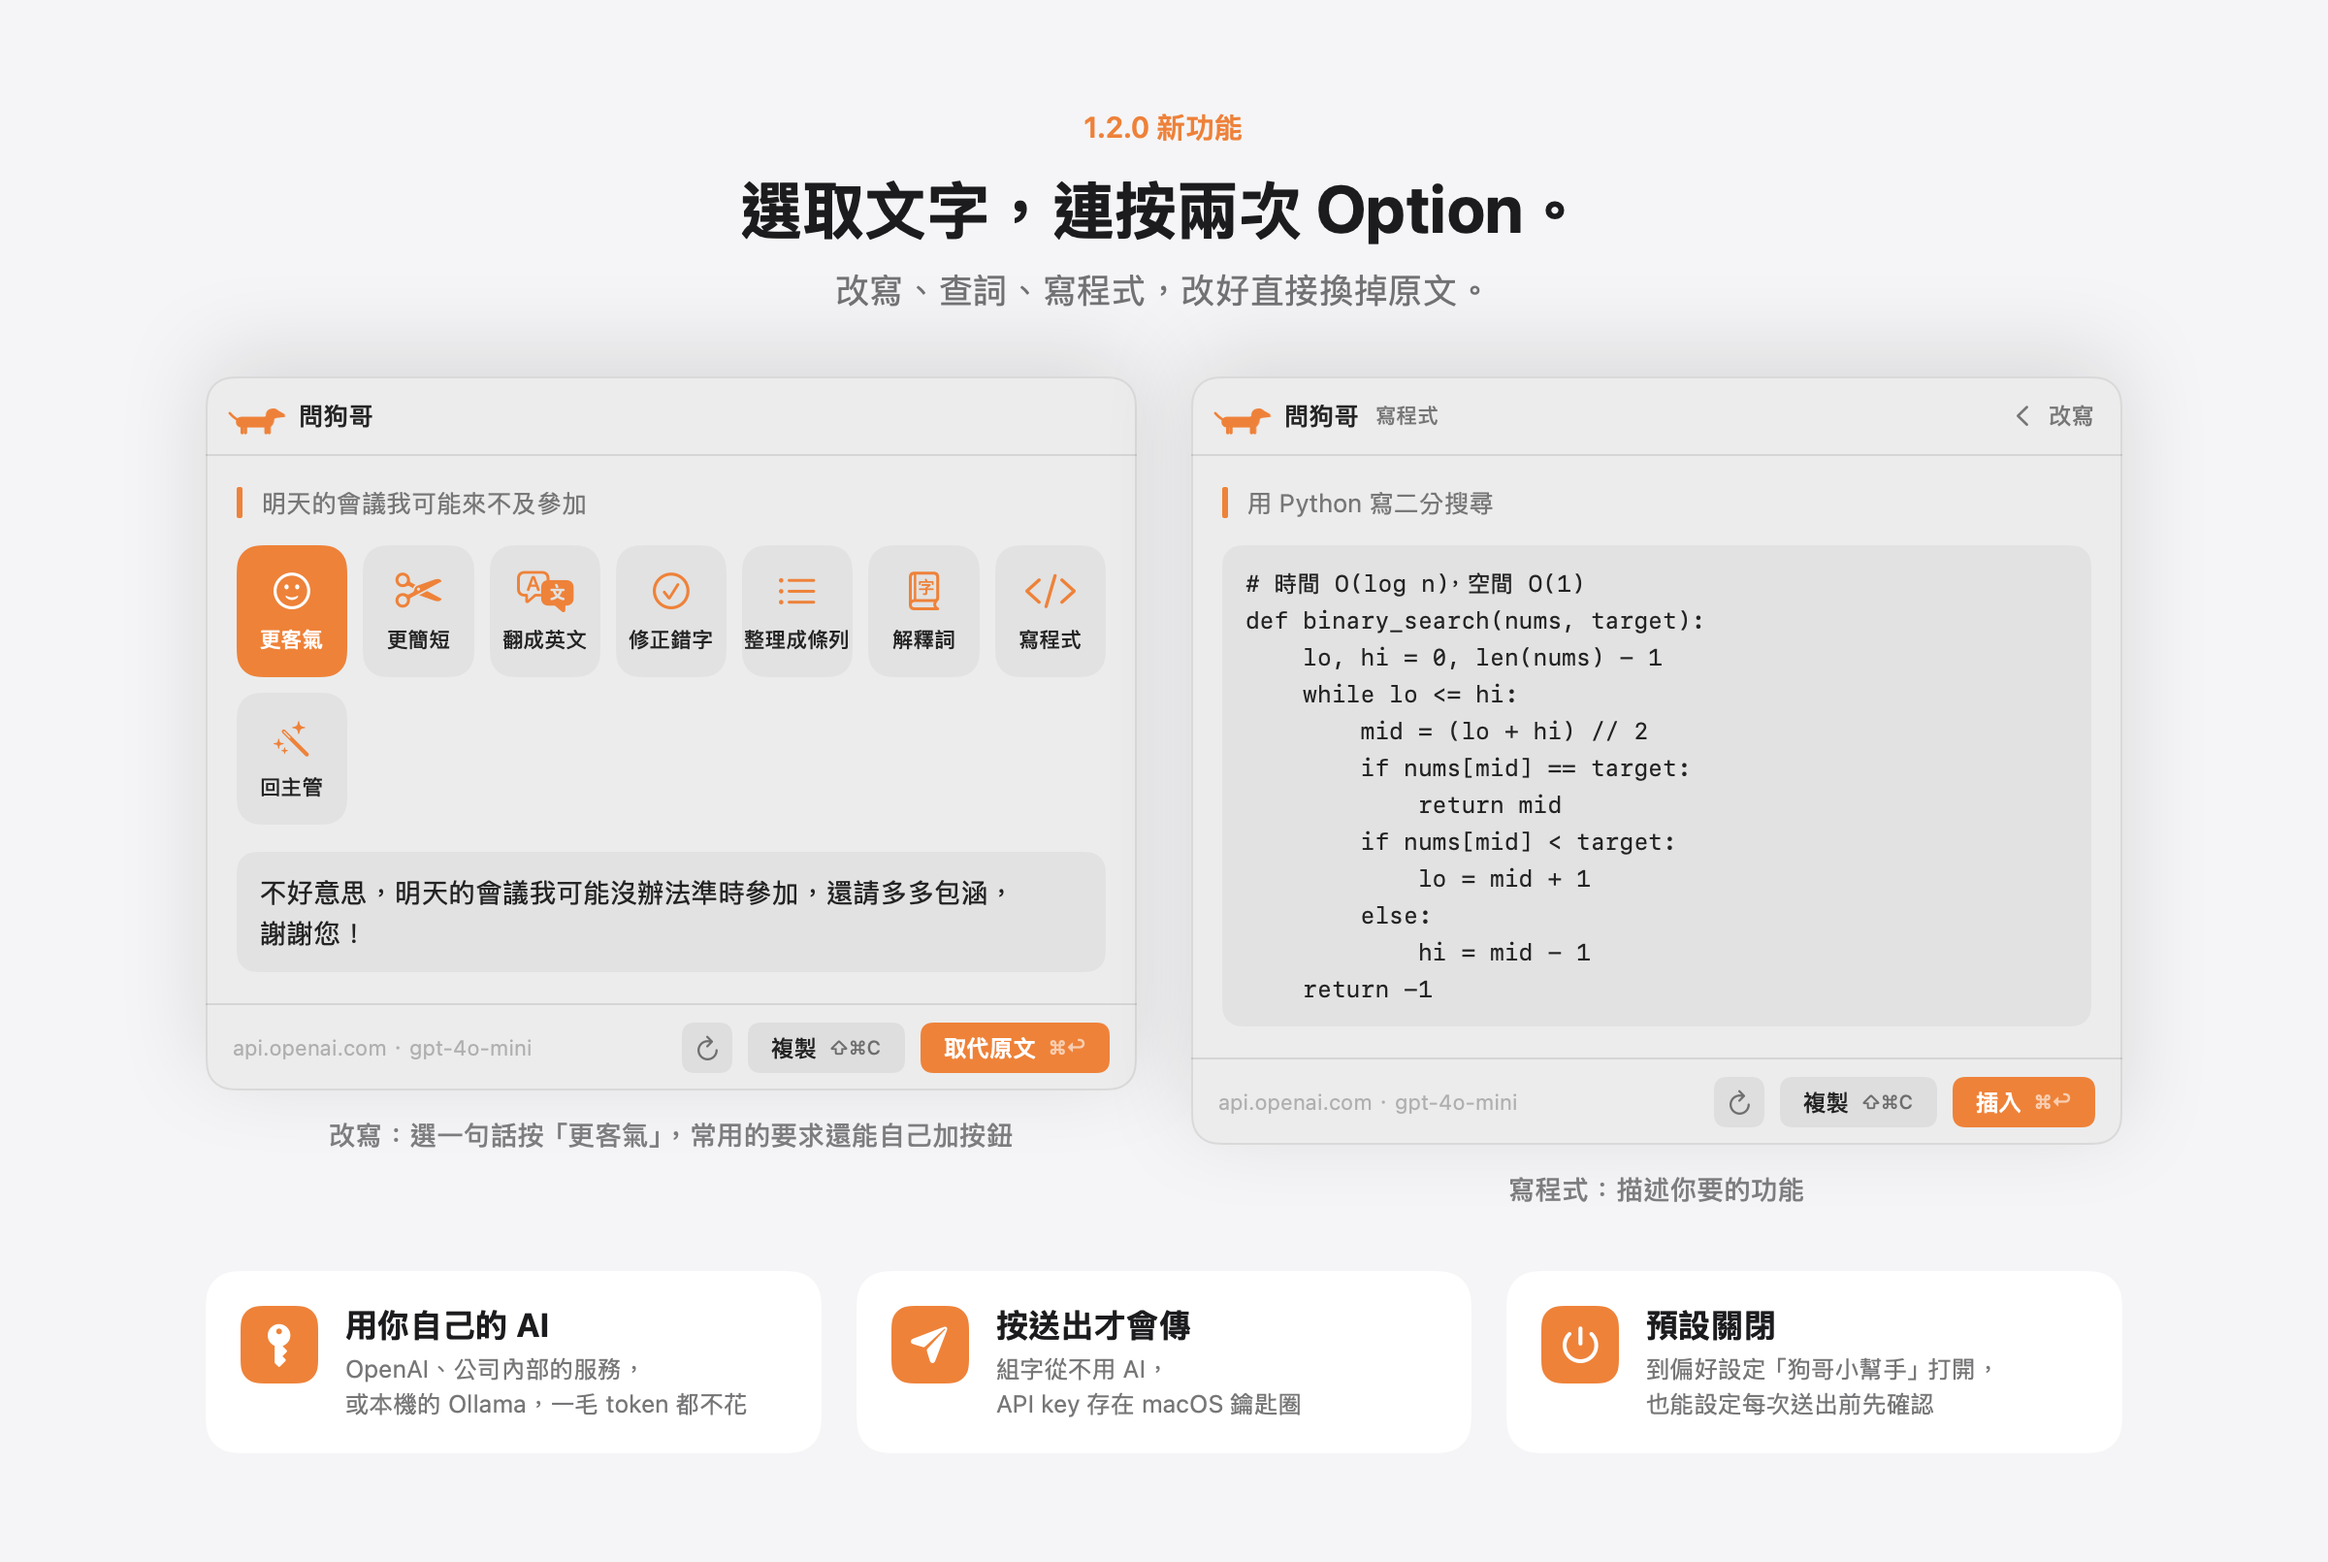
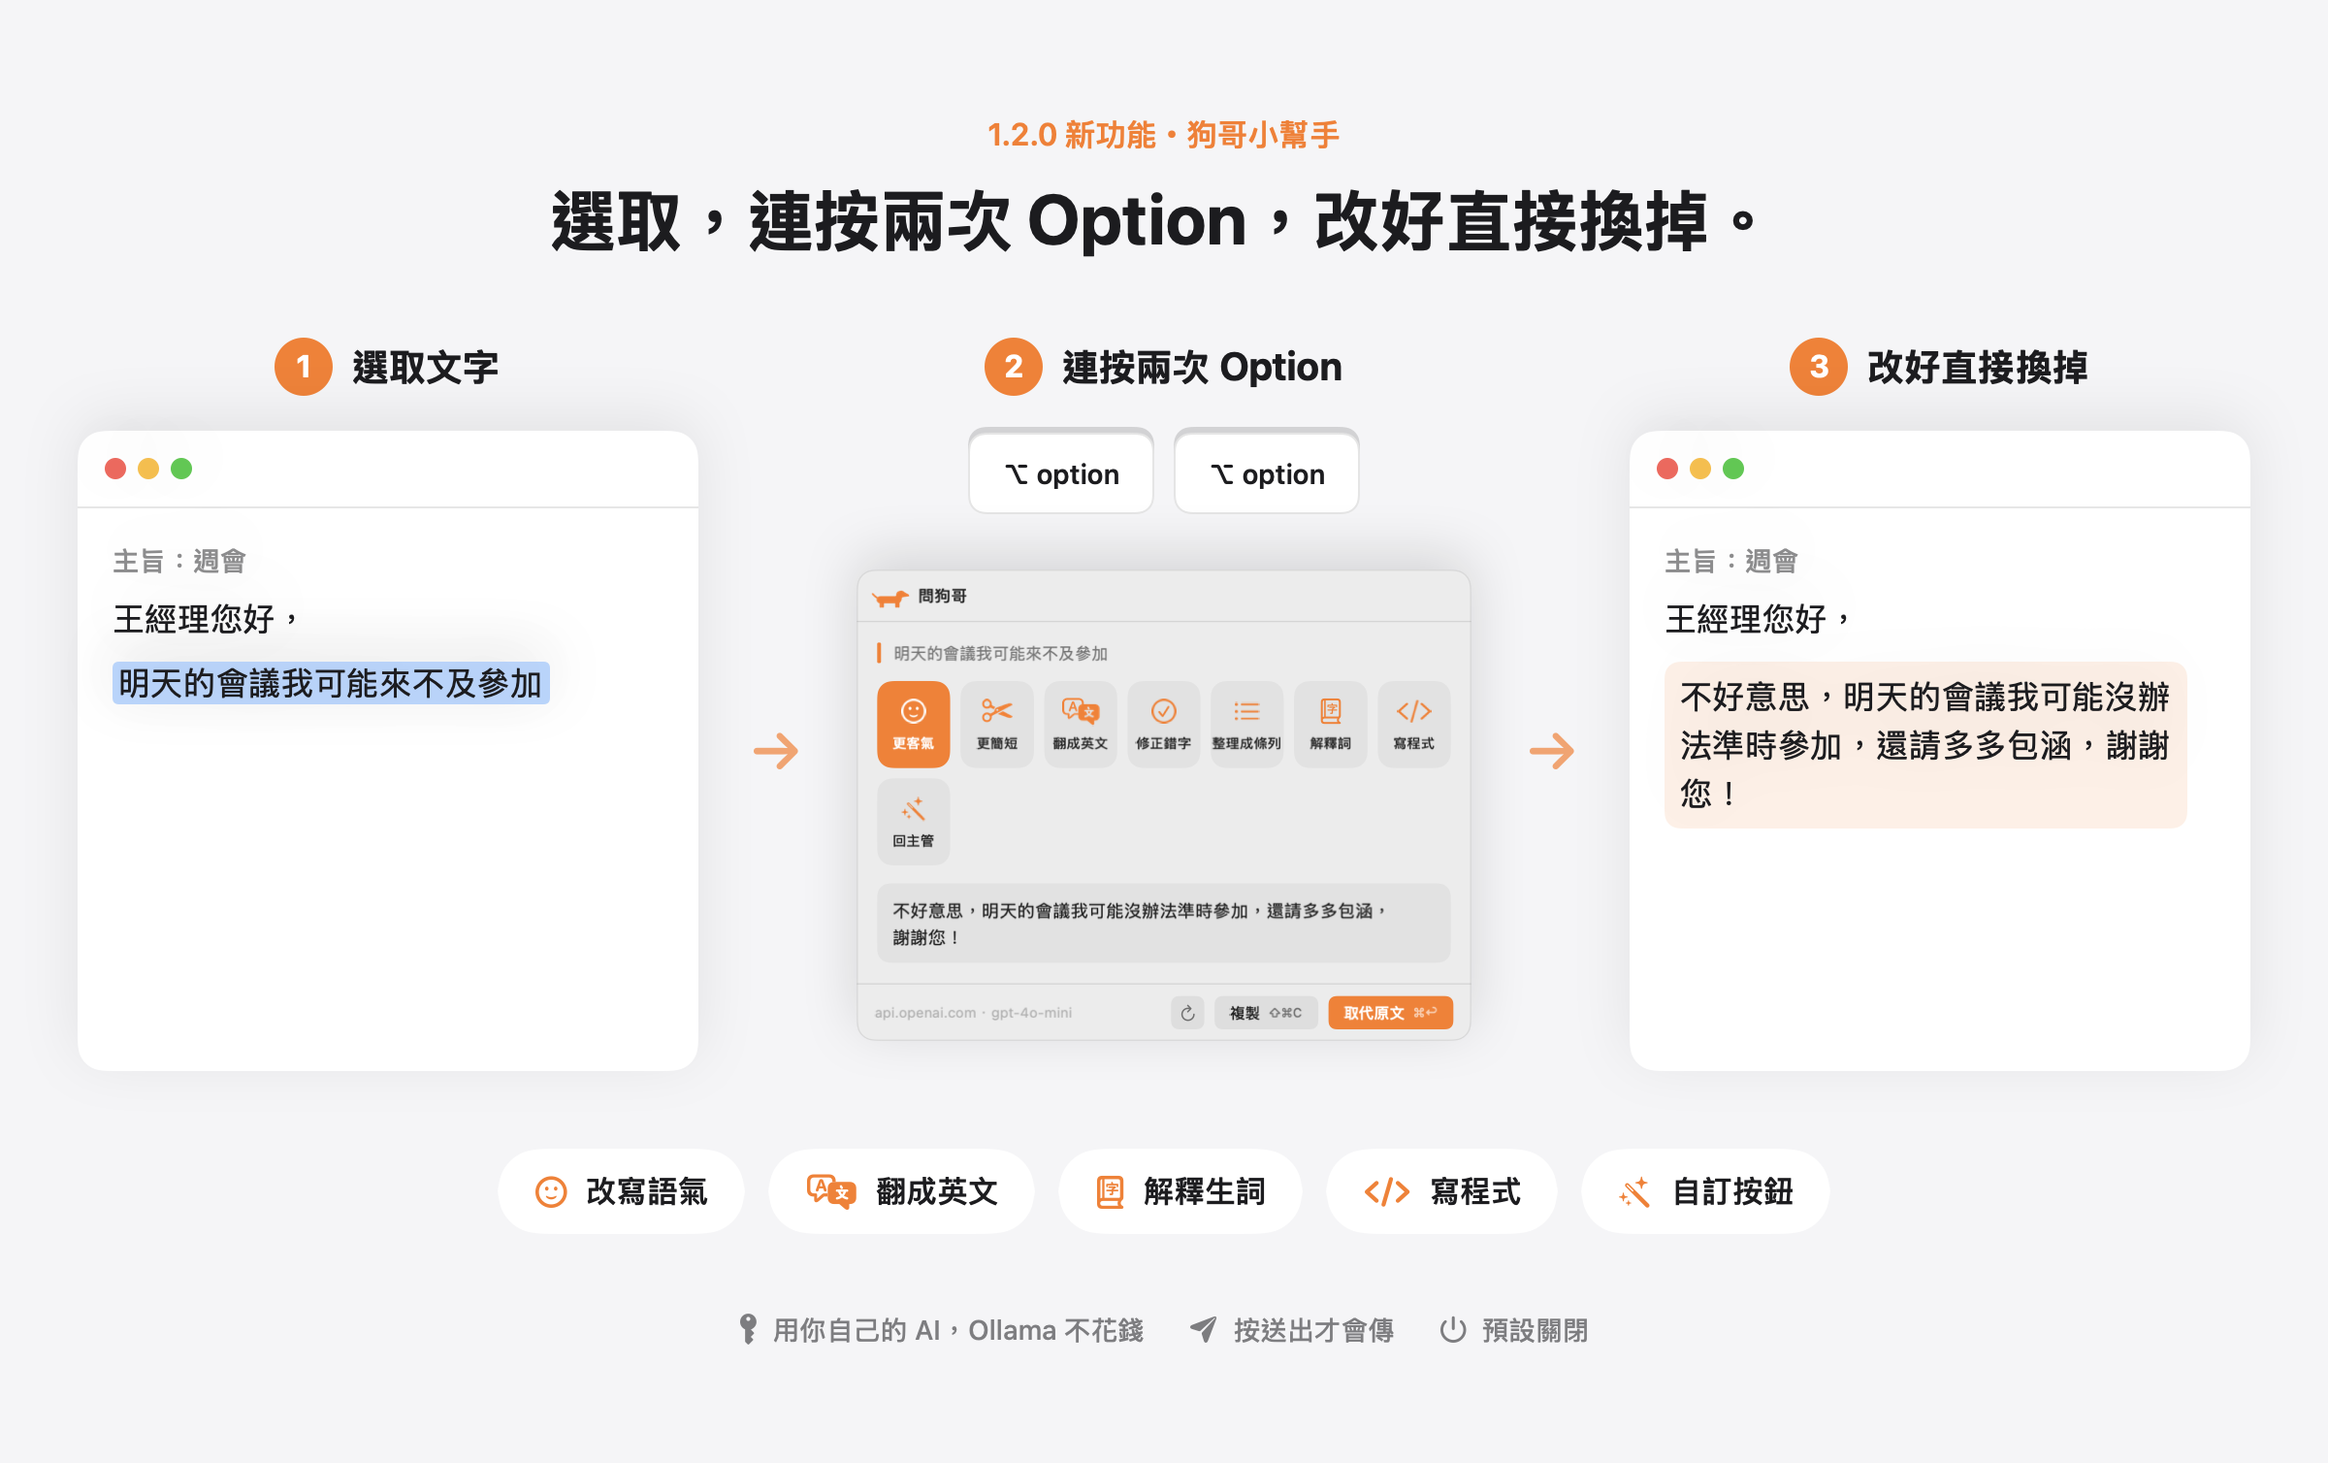
README：狗哥小幫手改講省 token，ask.png 改成選取、連按 Option、直接換掉三步驟

diff --git a/README.md b/README.md
@@ -23,13 +23,13 @@
 <br>
 
 <h2 align="center">狗哥這次真的接上 AI 了。</h2>
-<p align="center">1.2.0 新功能：狗哥小幫手。回信怕語氣太衝、英文寫不出來、看到不懂的詞、臨時要一段程式，選起來交給狗哥就好。<br>要接哪個 AI、常用的要求做成哪些按鈕，都由你自己決定。</p>
+<p align="center">改一件小事，也要開 ChatGPT、貼一大段、來回對話，浪費時間又浪費 token？<br>1.2.0 新功能「狗哥小幫手」只送你選取的那段，改好直接換掉原文；接本機的 Ollama，一毛 token 都不花。</p>
 
 <p align="center">
-  <img src="images/ask.png" width="100%" alt="狗哥小幫手：選取文字，連按兩次 Option。左邊選取「明天的會議我可能來不及參加」，按「更客氣」改成「不好意思，明天的會議我可能沒辦法準時參加，還請多多包涵，謝謝您！」，再按「取代原文」換掉選取的那句，按鈕下方還有一個自己加的「回主管」按鈕；右邊是寫程式模式，輸入「用 Python 寫二分搜尋」，狗哥給出附上時間與空間複雜度註解的程式碼。下方三點：用你自己的 AI，OpenAI、公司內部的服務或本機的 Ollama，一毛 token 都不花；按送出才會傳，組字從不用 AI，API key 存在 macOS 鑰匙圈；預設關閉，到偏好設定「狗哥小幫手」打開，也能設定每次送出前先確認。">
+  <img src="images/ask.png" width="100%" alt="狗哥小幫手三步驟：1 選取文字，在信裡選取「明天的會議我可能來不及參加」；2 連按兩次 Option，叫出問狗哥，按「更客氣」；3 改好直接換掉，信裡那句變成「不好意思，明天的會議我可能沒辦法準時參加，還請多多包涵，謝謝您！」。下方標籤：改寫語氣、翻成英文、解釋生詞、寫程式、自訂按鈕。最下面：用你自己的 AI，Ollama 不花錢；按送出才會傳；預設關閉。">
 </p>
 
-<p align="center">改一句話，不用再開 ChatGPT 複製、貼上、再貼回來。<br><sub>預設關閉，到偏好設定「狗哥小幫手」打開；只有你按下送出，才會把視窗裡的文字送到你填的服務。</sub></p>
+<p align="center"><sub>預設關閉，到偏好設定「狗哥小幫手」打開；只有你按下送出，才會把視窗裡的文字送到你填的服務。</sub></p>
 
 <br>
 
